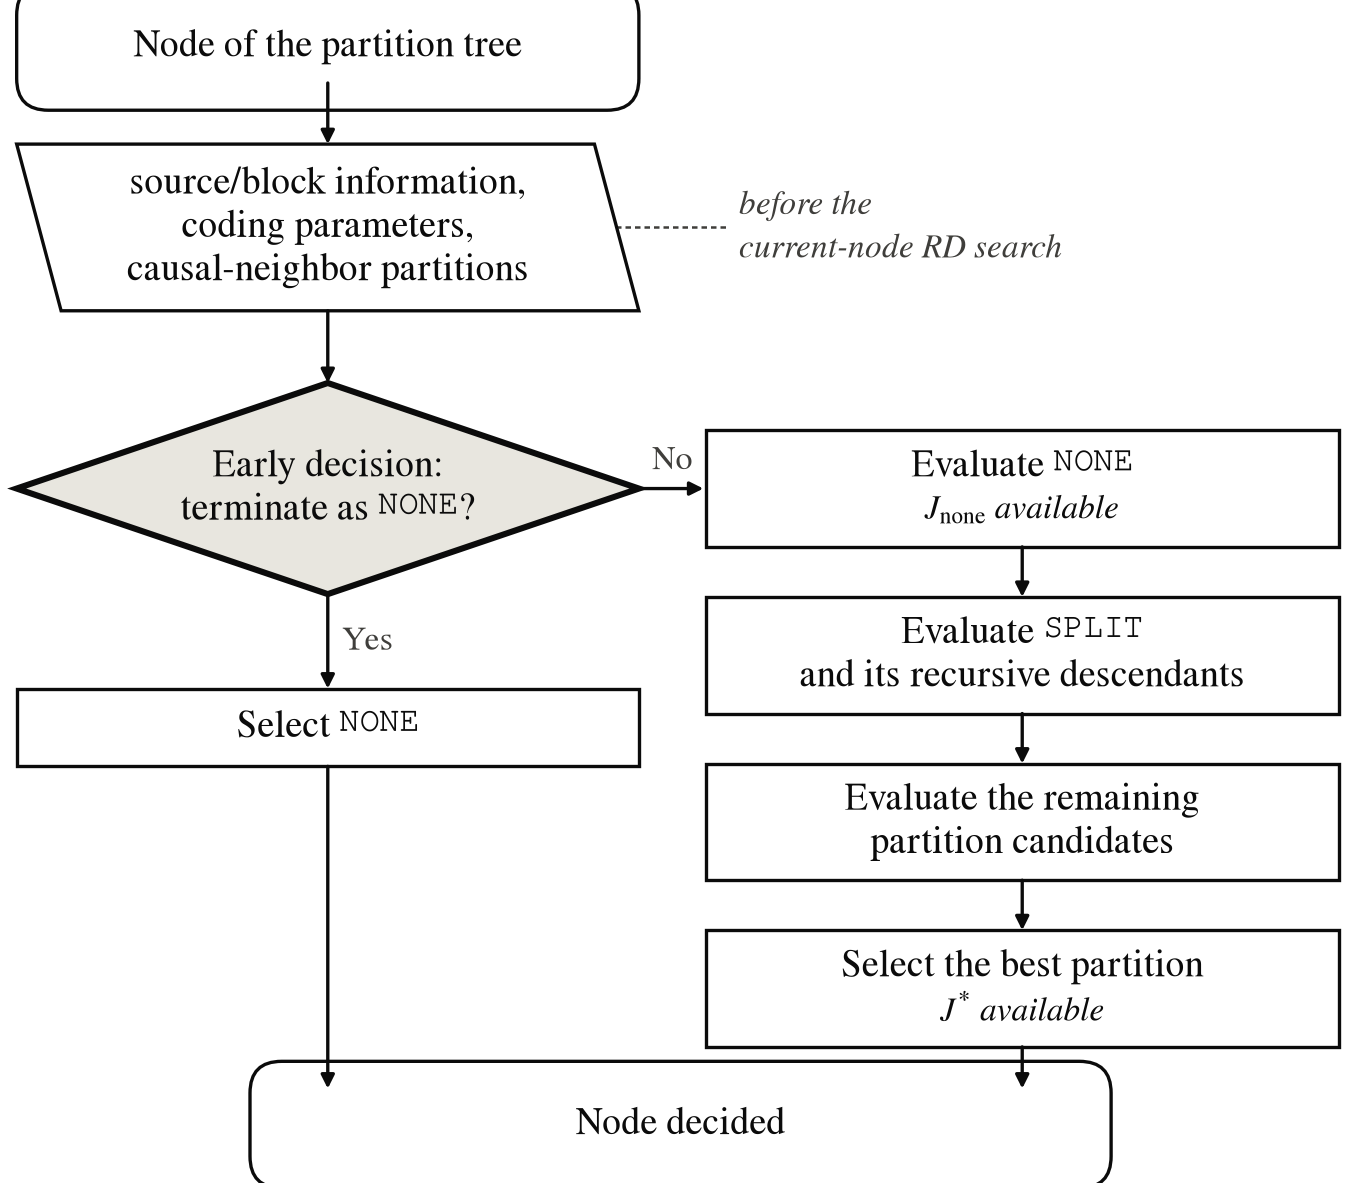
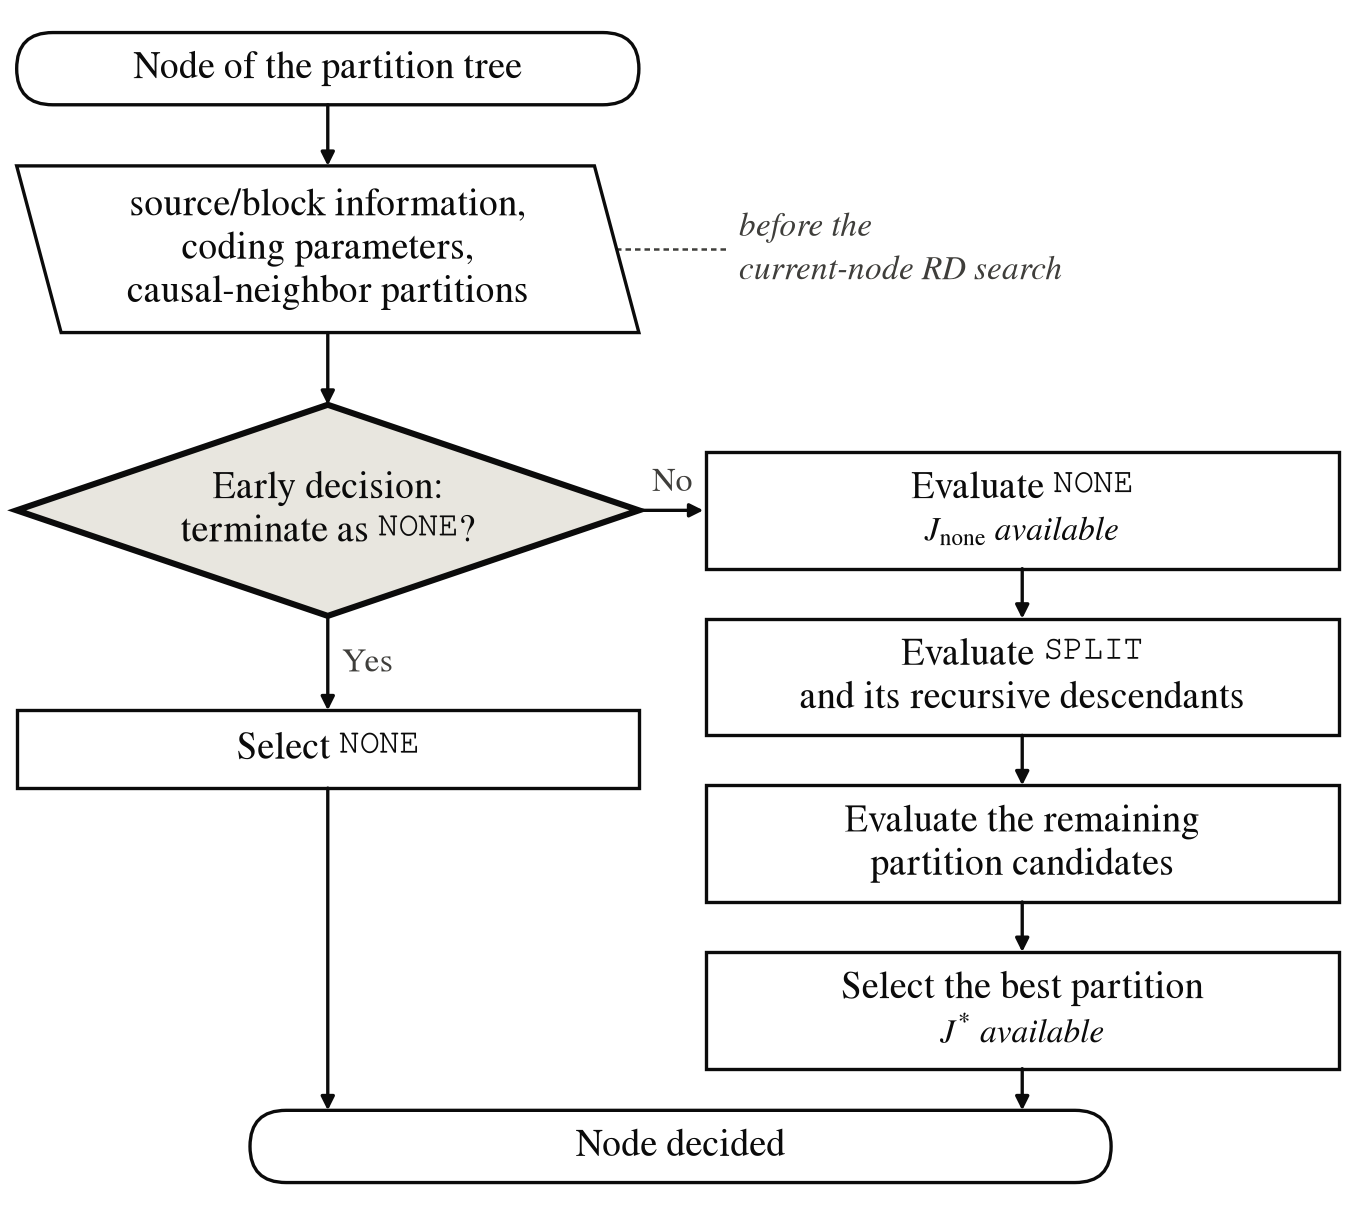
Conserta os terminadores da Figura 1, que saiam cortados
O boxstyle "round,pad=r" do matplotlib INFLA a caixa em r para cada lado: os
terminadores, pedidos com 13 pt de altura, saiam com 22,8 e estouravam o limite
do eixo em cima e embaixo, aparecendo cortados no PDF da pagina. Passam a usar
pad=0 com rounding_size, que e a forma de obter o estadio sem inflar, e a figura
ganha respiro vertical explicito de 4 pt.

Acrescenta a trava de sangria: depois de gravar, o proprio script abre o bitmap
e mede a borda branca dos quatro lados, parando se alguma tinta encostar. Ela e
feita no resultado, e nao na intencao, que e o que faltava -- o estouro passou
por tres revisoes sem nada falhar.

Claude-Session: https://claude.ai/code/session_01SNAdG1wmLYxZF1PGtFYxeR

diff --git a/src/scripts/benchmark/plot_information_flow_icassp_fig1.py b/src/scripts/benchmark/plot_information_flow_icassp_fig1.py
@@ -77,8 +77,13 @@ matplotlib.rcParams.update({
 
 DPI = 400
 W_PT = 86.0 / 25.4 * 72.0          # 243,78 pt — \columnwidth do spconf.sty
-H_PT = 213.0
-COL_W_IN, FIG_H_IN = W_PT / 72.0, H_PT / 72.0
+H_PT = 213.0    # altura do CONTEUDO, do topo do primeiro simbolo a base do ultimo
+# Respiro vertical. Sem ele o traco dos terminadores, que o matplotlib centra no
+# caminho, perde metade da sua largura no limite do eixo e a figura aparece
+# cortada em cima e embaixo no PDF da pagina.
+MARG_V = 4.0
+H_FIG = H_PT + 2 * MARG_V
+COL_W_IN, FIG_H_IN = W_PT / 72.0, H_FIG / 72.0
 
 PT = 6.8        # corpo dos rotulos de simbolo
 PT_MONO = 6.0   # tokens em Courier, mais largos que a serif no mesmo corpo
@@ -173,7 +178,7 @@ def draw(out_path):
     fig.patch.set_facecolor(FUNDO)
     ax = fig.add_axes([0, 0, 1, 1])
     ax.set_xlim(0, W_PT)
-    ax.set_ylim(0, H_PT)
+    ax.set_ylim(0, H_FIG)
     ax.axis("off")
     fig.canvas.draw()
     rend = fig.canvas.get_renderer()
@@ -195,7 +200,7 @@ def draw(out_path):
     def Y(t):
         """'Distancia do topo' -> ordenada, para que a leitura acima seja de
         cima para baixo, como o desenho."""
-        return H_PT - t
+        return H_FIG - MARG_V - t
 
     def rotular(cx, cy, linhas, util, nome):
         # `util` pode ser um numero (simbolos de lado reto) ou uma funcao da
@@ -228,11 +233,15 @@ def draw(out_path):
             ax.add_patch(Rectangle((x, y0), w, h, facecolor=face,
                                    edgecolor=TINTA, linewidth=lw, zorder=3))
         elif tipo == "terminador":
-            r = h / 2 - 0.8
-            ax.add_patch(FancyBboxPatch((x + r, y0 + 0.8), w - 2 * r, h - 1.6,
-                                        boxstyle="round,pad=%.2f" % r,
-                                        facecolor=face, edgecolor=TINTA,
-                                        linewidth=lw, zorder=3))
+            # pad=0 e rounding_size: com "round,pad=r" o matplotlib INFLA a
+            # caixa em r para cada lado, e o terminador saia com quase o dobro
+            # da altura pedida, estourando o limite do eixo em cima e embaixo.
+            r = h / 2.0
+            ax.add_patch(FancyBboxPatch(
+                (x, y0), w, h,
+                boxstyle="round,pad=0,rounding_size=%.2f" % r,
+                facecolor=face, edgecolor=TINTA, linewidth=lw,
+                mutation_aspect=1.0, zorder=3))
             util = w - 2 * r - PAD
         elif tipo == "entrada":     # paralelogramo
             d = 8.0
@@ -301,9 +310,45 @@ def draw(out_path):
     print("  ajuste de texto: todas as linhas cabem nos seus simbolos")
 
     fig.savefig(out_path, facecolor=FUNDO)
-    fig.savefig(out_path.replace(".pdf", ".png"), facecolor=FUNDO, dpi=DPI)
+    png = out_path.replace(".pdf", ".png")
+    fig.savefig(png, facecolor=FUNDO, dpi=DPI)
     plt.close(fig)
+    conferir_bordas(png)
     print("  gravado: %s  (%.3f x %.2f in)" % (out_path, COL_W_IN, FIG_H_IN))
+
+
+def conferir_bordas(png, minimo_pt=1.0):
+    """Trava de sangria: nenhuma tinta pode encostar na borda da figura.
+
+    Existe porque um simbolo pode estourar o limite do eixo sem que nada falhe
+    -- foi o que aconteceu com os terminadores, que o boxstyle "round,pad=r"
+    INFLA em r para cada lado, saindo com quase o dobro da altura pedida e
+    aparecendo cortados no PDF da pagina. A conferencia e feita no bitmap, que e
+    a unica forma de ver o resultado e nao a intencao."""
+    try:
+        from PIL import Image
+    except ImportError:
+        print("  aviso: PIL ausente, trava de sangria nao rodou")
+        return
+    import numpy as np
+    a = np.array(Image.open(png).convert("L"))
+    tinta = a < 200
+    if not tinta.any():
+        raise SystemExit("Figura 1 saiu em branco.")
+    lin = np.where(tinta.any(axis=1))[0]
+    col = np.where(tinta.any(axis=0))[0]
+    ppp = DPI / 72.0
+    bordas = {"topo": lin[0] / ppp, "base": (a.shape[0] - 1 - lin[-1]) / ppp,
+              "esquerda": col[0] / ppp, "direita": (a.shape[1] - 1 - col[-1]) / ppp}
+    curtas = {k: v for k, v in bordas.items() if v < minimo_pt}
+    if curtas:
+        sys.stderr.write(
+            "Tinta encosta na borda da figura: "
+            + ", ".join("%s %.1f pt" % (k, v) for k, v in sorted(curtas.items()))
+            + chr(10) + "Aumente MARG_V ou recue a raia; o PDF da pagina vai cortar." + chr(10))
+        raise SystemExit(1)
+    print("  trava de sangria: %s" % ", ".join(
+        "%s %.1f pt" % (k, bordas[k]) for k in ("topo", "base", "esquerda", "direita")))
 
 
 def main(argv):
